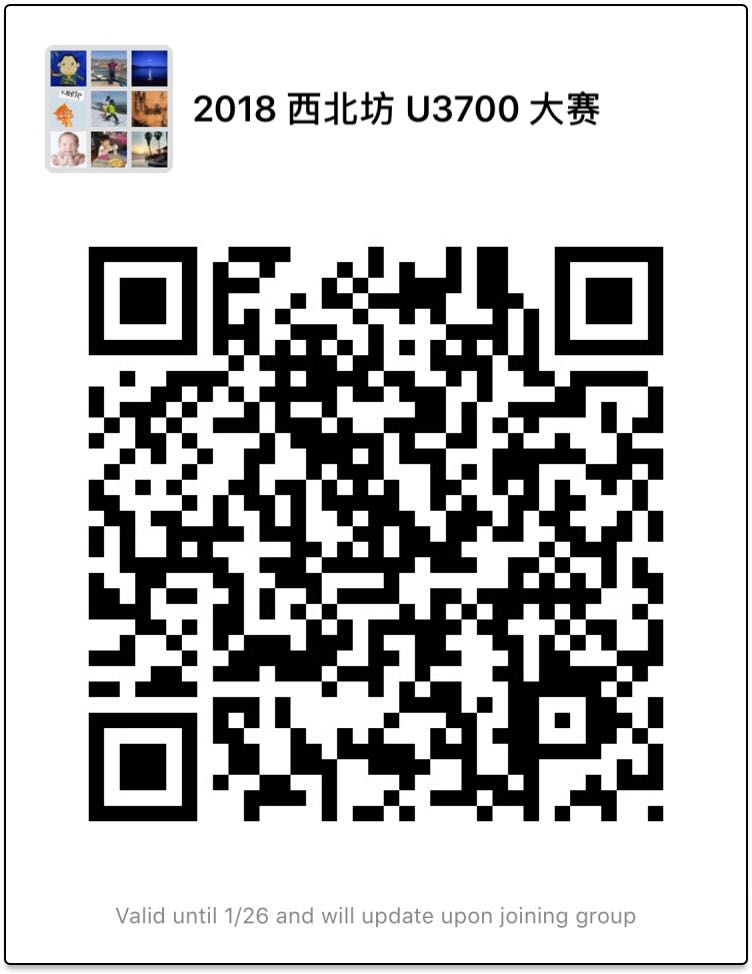
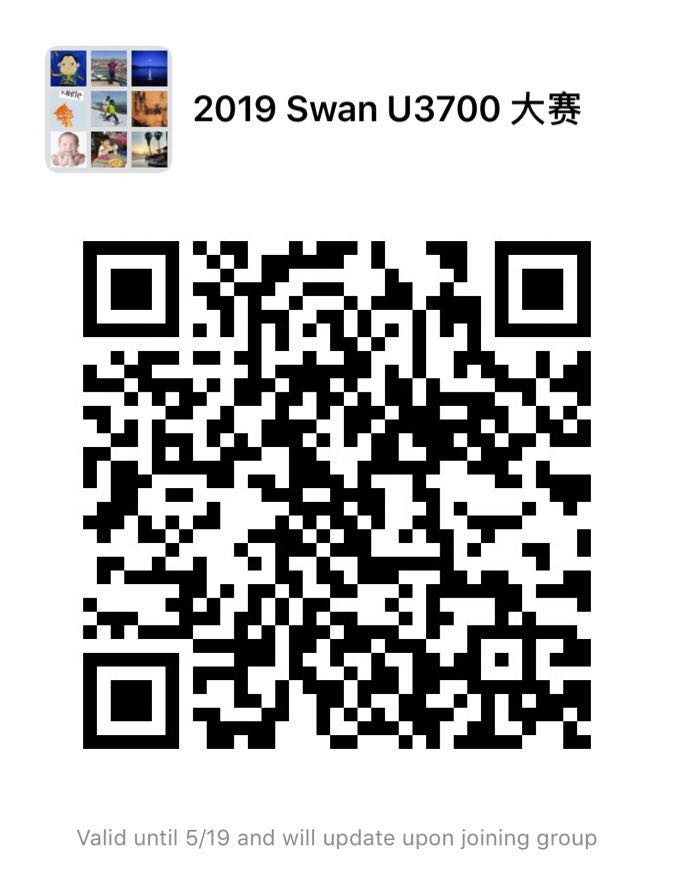
update u3700.

diff --git a/web/swan/2019u3700/index.html b/web/swan/2019u3700/index.html
@@ -25,114 +25,34 @@
 								<img class="logo-right" src="../images/logo-45.png">
 							</div>
 
-							<h2> 2018 PPC U3700 Charitable Team Competition </h2>
-							<h3>2018 西北坊U3700大赛</h3>
-							
-							
+							<h2> 2019 Swan Warriors U3700 Charitable Team Competition </h2>
+							<h3>2019天鹅勇士U3700大赛</h3>
 							
 							<table>
 							<tr >
 							<td width="620px">
-							<p>The event this year is charitable. $30 per person donation is suggested for
-							participation. The donation will be used to support PPC to provide free or low cost facility and education
-							programs to general public.</p> 
 							<ul>
-								<li> Registration: <a href="http://goo.gl/UE6ASt">http://goo.gl/UE6ASt</a></li>
-								<li> Time: <a href="schedule.html">Feb 3 - March 17</a></li>
-								<li> Organzing committee: <br/>Yongjun Liu, Tong Liu, Xingang Huang and Yan He </li>
+								<li> Registration: <a href="https://docs.google.com/spreadsheets/d/10CL5QggKt5Cf_ySxZwef-YS6R1rJRJ3a6x7Cah6V96Q/edit#gid=0">https://docs.google.com/spreadsheets/d/10CL5QggKt5Cf_ySxZwef-YS6R1rJRJ3a6x7Cah6V96Q/edit#gid=0</li>
+								<li> Time: <a href="schedule.html">June 1 - July 20</a></li>
+								<li> 							
+							
+							Registration fee: $40 per person. Early bird $30 per player before 5/12.
+							
+								
+								<li> Organzing committee: <br/>Yongjun Liu, Tong Liu, Xingang Huang and Yan He <br/> Chair: Yan He</li>
 								<li> Contact email: <a href="mailto:pingpong.community@gmail.com"> pingpong.community@gmail.com</a> </li>
 								<li> Paypal address: pingpong.community@gmail.com </li>
 								<li> Wechat group: </li>
 								
 							</ul>
 							
-							<p> The prize is sponsored by <b>North Western Noodle (西北坊) </b></p>
+							<p> The prize is sponsored by <b><a href="https://www.swanwarriors.com/">Swan Warriors TTC </b></p>
 							<td>
 							<td>
-								 <img src="wechat.png" height="200px" style="vertical-align: middle; padding: 5px;">
+								 <img src="./wechat.png" height="200px" style="vertical-align: middle; padding: 5px;">
 							</td>
 							</tr>
 							</table>
-							<h2>Winners</h2>
-
-							<table class="history-table">
-								<tbody>
-									<tr>
-										<td width="36%">
-
-
-											<p>
-												Champion: Koki Ni Wh Ha Ha <br />
-												Danny Chiang <br/>
-												Meng-Ju Liu 
-											</p>
-
-										</td>
-										<td><img src="champion.jpeg" /></td>
-									</tr>
-									<tr>
-										<td width="36%">
-
-											<p>
-												Runner up: CHOOOOOOO-LE <br/>
-												James Wan <br/>
-												Derek Mun
-												
-												
-											</p>
-
-										</td>
-										<td><img src="runnerup.jpeg" /></td>
-									</tr>
-									<tr>
-										<td width="36%">
-
-											<p>
-												Semi-finalists: KK & Weken<br/>
-												KK: Kesong Chen and Kyle Jao <br/>
-												WeKen: Ken and Shawn
-												
-												
-											</p>
-
-										</td>
-										<td><img class="expand" src="semi.png"/></td>
-									</tr>
-									<tr>
-										<td width="36%">
-
-											<p>
-												Final SE Video<br/>
-												Commented by: George Zhao, Jin Zhang, Yiong Zhang, Tom Zhao, Tong Liu.  
-												<br/>
-												
-											</p>
-
-										</td>
-										<td>
-<iframe width="480" height="270" src="https://www.youtube.com/embed/i16OtKR3F70" frameborder="0" allow="autoplay; encrypted-media" allowfullscreen></iframe>										</td>
-									</tr>
-
-									<tr>
-										<td width="36%">
-
-											<p>
-												Final Group RR Video  
-												<br/>
-												
-											</p>
-
-										</td>
-										<td>
-<iframe width="480" height="270" src="https://www.youtube.com/embed/Dots1ISDRwI" frameborder="0" allow="autoplay; encrypted-media" allowfullscreen></iframe>									</tr>
-
-								</tbody>
-							</table>
-							
-							
-							
-							
-							
 						</div>
 					</div>
 				</div>

diff --git a/web/swan/2019u3700/rules.html b/web/swan/2019u3700/rules.html
@@ -24,18 +24,21 @@
 							<div class="logo-holder">
 								<img class="logo-right" src="../images/logo-45.png">
 							</div>
-							<p> <i> Last updated on: Jan 19, 2018 </i> </p>
+							<p> <i> Last updated on: May 9, 2019 </i> </p>
 							<h2>
 								Eligibility
 							</h2>
 							<ol>
 								<li> Any two Ping Pong players can register a team.</li>
-								<li> The rating sum of two players cannot exceed 3700. If a player has both USATT tournament rating and league rating, use the most recent one. Rating cut off date is 1/13/2018. Organizers can assign a rating to unrated players, or request unrated players to submit professional coach’s letter. </li>
+								<li> The rating sum of two players cannot exceed 3700. If a player has both USATT tournament rating and league rating, 
+								Max(USATT Tournament Rating, USATT Leagure Rating) if both are within recent 3 yeras.
+								Otherwise, use the most recent. 
+								Rating cut off date is 5/3/2018. Organizers can assign a rating to unrated players, or request unrated players to submit professional coach’s letter. </li>
 								<li> Rating check at https://www.teamusa.org/USA-Table-Tennis/Ratings/USATT-Individuals-Ratings
-								<li> Former Swan U3200 and U3700 teams can qualify without checking ratings.
 								<li> Organizers reserve the right to approve players’ rating and eligibility.
 								<li> Tournament size limits to 42 teams 
-								<li> Registration fee: $30 per player. Register at <a href="https://goo.gl/UE6ASt">https://goo.gl/UE6ASt</a> 
+								<li> Registration fee: $40 per player. Early bird before 5/12: $30 per player.
+								Register at <a href="https://docs.google.com/spreadsheets/d/10CL5QggKt5Cf_ySxZwef-YS6R1rJRJ3a6x7Cah6V96Q/edit#gid=0 ">https://https://docs.google.com/spreadsheets/d/10CL5QggKt5Cf_ySxZwef-YS6R1rJRJ3a6x7Cah6V96Q/edit#gid=0 </a> 
 								
 							</ol>
 							<h2>
@@ -48,10 +51,8 @@
 								
 								<li> A team match consists of 2 single matches and 1 double match. A match is best of 5 games, 11 points per game.
 								</li>
-								
+								<li> A female player is eligible for a 2 point handicap in each game when playing against a male player. Mixed doubles or women’s doubles is eligible for a 2 point handicap in each game when playing against men’s doubles.
 								<li> Organizers reserve the right to adjust the group drawing result. </li>
-								<li> If a team match cannot finish on the day of group RR, the two teams can reschedule the match if both agree. The match
-								must be finished before the end of Mar 4 2018. 
 							</ol>
 							<h2>
 								Schedule

diff --git a/web/swan/lib/calendar/u3700.js b/web/swan/lib/calendar/u3700.js
@@ -104,7 +104,7 @@ eventSources.push(
 		    title:"<center> U3700 <br/> Group F, G <br/> 7 tables reserved </center>",
 		    start: '2018-03-03T17:00',
 		    end: '2018-03-03T22:00',
-		    url: "http://swanpp.com/2018u3700/draw.html",
+		    url: "http://swanpp.com/2019u3700/d.html",
 		    color: "Blue"
 		},
 		{
@@ -123,6 +123,74 @@ eventSources.push(
 		    title:"<center> U3700 Final",
 		    start: '2018-03-17T14:00',
 		    end: '2018-03-17T21:00',
+		    color: "#1D7018"
+		},
+		// 2019 U 3700
+		{
+		    title:"<center> U3700 Registration</center>",
+		    start: '2019-05-08',
+		    end: '2019-05-27',
+		    url: "http://swanpp.com/2019u3700/2019u3700",
+		    color: "Green"
+		},
+		{
+		    title:"<center> U3700 Warm Up</center>",
+		    start: '2019-05-25T17:00',
+		    end: '2019-05-25T22:00',
+		    url: "http://swanpp.com/2019u3700/draw.html",
+		    color: "Blue"
+		},
+		{
+		    title:"<center> U3700 Group</center>",
+		    start: '2019-06-01T17:00',
+		    end: '2019-06-01T22:00',
+		    url: "http://swanpp.com/2019u3700/draw.html",
+		    color: "Blue"
+		},
+		{
+		    title:"<center> U3700 Group</center>",
+		    start: '2019-06-08T17:00',
+		    end: '2019-06-08T22:00',
+		    url: "http://swanpp.com/2019u3700/draw.html",
+		    color: "Blue"
+		},
+		{
+		    title:"<center> U3700 Group</center>",
+		    start: '2019-06-15T17:00',
+		    end: '2019-06-15T22:00',
+		    url: "http://swanpp.com/2019u3700/draw.html",
+		    color: "Blue"
+		},
+		{
+		    title:"<center> U3700 Group</center>",
+		    start: '2019-06-22T17:00',
+		    end: '2019-06-22T22:00',
+		    url: "http://swanpp.com/2019u3700/draw.html",
+		    color: "Blue"
+		},
+		{
+		    title:"<center> U3700 Group</center>",
+		    start: '2019-07-06T17:00',
+		    end: '2019-07-06T22:00',
+		    url: "http://swanpp.com/2019u3700/draw.html",
+		    color: "Blue"
+		},
+		{
+		    title:"<center> U3700 Lost Pearl 1</center>",
+		    start: '2019-07-13T17:00',
+		    end: '2019-07-13T22:00',
+		    color: "#ff9933"
+		},
+		{
+		    title:"<center> U3700 Lost Pearl 2</center>",
+		    start: '2019-07-14T15:00',
+		    end: '2019-07-1420:00',
+		    color: "#ff9933"
+		},
+		{
+		    title:"<center> U3700 Final",
+		    start: '2019-07-20T14:00',
+		    end: '2019-07-20T21:00',
 		    color: "#1D7018"
 		},
 

diff --git a/web/swan/2019u3700/schedule.html b/web/swan/2019u3700/schedule.html
@@ -38,21 +38,24 @@
 
 							<div id="calendar"></div>
 							<br/>
-							<h2> Registration Jan 15 - 28</h2>
-							<p> Register at <a href="https://goo.gl/UE6ASt">https://goo.gl/UE6ASt</a> </p> 
+							<h2> Registration May 8 - 26</h2>
+							<p> Register at <a href="https://docs.google.com/spreadsheets/d/10CL5QggKt5Cf_ySxZwef-YS6R1rJRJ3a6x7Cah6V96Q/edit#gid=0">
+							https://docs.google.com/spreadsheets/d/10CL5QggKt5Cf_ySxZwef-YS6R1rJRJ3a6x7Cah6V96Q/edit#gid=0</a> </p> 
 							
-							<h2> Warm up: Jan 27 </h2>
+							<h2> Warm up: May 25 </h2>
 							
 							<p> Time: 5pm - 10pm. <br/>
 							</p>
 							
-							<h2> Group Feb 3 - March 3 </h2>
+							<h2> Group: June 1 - July 6 </h2>
 							<p>
-							Time: Saturday Feb 3, 10, 17, 24 and March 3, 5pm - 10pm<br/>
+							Time: Saturday June 1, 8, 15, 22 and July 6, 5pm - 10pm<br/>
 							Format: Round Robin</p>
 							<p>
 							Top two teams in each group advance to Final.
 							</p>
+							
+							<!--
 
 							<h3> Feb 3 Group A</h3>
 <table class="match-table same-width" width="80%">
@@ -91,22 +94,17 @@
 								<span> &nbsp; </span>
 							</p>
 
+-->
 
-
-							<h2> Lost Pearl March 10 - 11 </h2>
+							<h2> Lost Pearl: July 13 - 14 </h2>
 							<p>
-							Time: Saturday Mar 10, 5pm - 10pm, Sunday Mar 11, 3pm - 8pm<br/>
+							Time: Saturday 7/13, 5pm - 10pm, Sunday 7/14, 1pm - 6pm<br/>
 							Format: <i>* TBD</i><br/>
-							</p>
-							<p>
-							Teams that have not qualified for finals can register at one of the two Lost Pearl events. Two Winners of the events qualify 
-							for final. Two runner ups of the events get consolation prize and are the replacement teams for top 16
-							teams that cannot make the final.
 							</p>
 							
 														
-							<h2> Final March 17 </h2>
-							<p> Time: Saturday March 17, 2pm - 9pm <br/>
+							<h2> Final: July 20</h2>
+							<p> Time: Saturday July 20, 2pm - 9pm <br/>
 							Format: Group RR followed by Single Elimination <br/>
 							</p>
 							<p>

diff --git a/web/swan/2019u3700/entries.html b/web/swan/2019u3700/entries.html
@@ -26,10 +26,12 @@
 							</div>
 
 							<p>
-								Latest entry information: <a href="http://goo.gl/UE6ASt">http://goo.gl/UE6ASt</a>
+								Latest entry information: <a href="https://docs.google.com/spreadsheets/d/10CL5QggKt5Cf_ySxZwef-YS6R1rJRJ3a6x7Cah6V96Q/edit#gid=0">
+								https://docs.google.com/spreadsheets/d/10CL5QggKt5Cf_ySxZwef-YS6R1rJRJ3a6x7Cah6V96Q/edit#gid=0</a>
 							</p>
+		
 							<h2>Teams</h2>
-<table>
+<!--table>
 <tr><td width="60px"></td><td width="200px">Team name</td><td width="200px">Player A Name / Rating</td><td width="200px">Player B Name /Rating</td></tr>
 <tr><td>1</td><td>宁笑江湖</td><td>Ning Song</td><td>Jason Liang(84890-1690)</td></tr>
 <tr><td>2</td><td>双星报喜 (Double Lucky Star)</td><td>Danny Hui (70967,1909)</td><td>Steven Li (?,1670)</td></tr>
@@ -73,7 +75,7 @@
 <tr><td>40</td><td>TTLT</td><td>Tarun Tandon (1950)</td><td>long tran (84099, 1387)</td></tr>
 <tr><td>41</td><td>WG</td><td>Wendy Wang (1953)</td><td>Gordan Yuan (1670)</td></tr>
 
-</table>
+</table-->
 
 
 							

diff --git a/web/swan/2019u3700/results.html b/web/swan/2019u3700/results.html
@@ -38,12 +38,14 @@ var minimalData = {"teams":[["A1: Fire Again","C2: CHOOOOOOO-LE"],["B1: WeKen","
 				</div>
 			</div>
 			<div id="contents">
+
 				<div class="box">
 					<div>
 						<div class="body">
 							<div class="logo-holder">
 								<img class="logo-right" src="../images/logo-45.png">
 							</div>
+							<!--
 							<h2> Final SE Bracket </h2>
 							
 							<div id="minimal">
@@ -98,7 +100,8 @@ var minimalData = {"teams":[["A1: Fire Again","C2: CHOOOOOOO-LE"],["B1: WeKen","
 
 
 					
- 											
+ 								-->	
+ 								To be published when available ...		
 							<p>
 								<span> &nbsp; </span>
 							</p>

diff --git a/web/swan/2019u3700/warmup.html b/web/swan/2019u3700/warmup.html
@@ -22,9 +22,9 @@
 							<div class="logo-holder">
 								<img class="logo-right" src="../images/logo-45.png">
 							</div>
-							<h2> Jan 27 Warm Up</h2>
+							<h2> May 25 Warm Up</h2>
 							
-							<p> Time: Jan 27, 5pm - 10pm</p>
+							<p> Time: May 25, 5pm - 10pm</p>
 							
 							<p>
 								<span> &nbsp; </span>

diff --git a/web/swan/2019u3700/draw.html b/web/swan/2019u3700/draw.html
@@ -19,6 +19,8 @@
 				<div class="box">
 					<div>
 						<div class="body">
+						<p> To be published ... </p>
+						<!--
 							
 							<h2> Group RR Feb 3 - Mar 3
 								
@@ -59,7 +61,7 @@
 							<p>
 								<span> &nbsp; </span>
 							</p>
-
+-->
 						</div>
 					</div>
 				</div>
